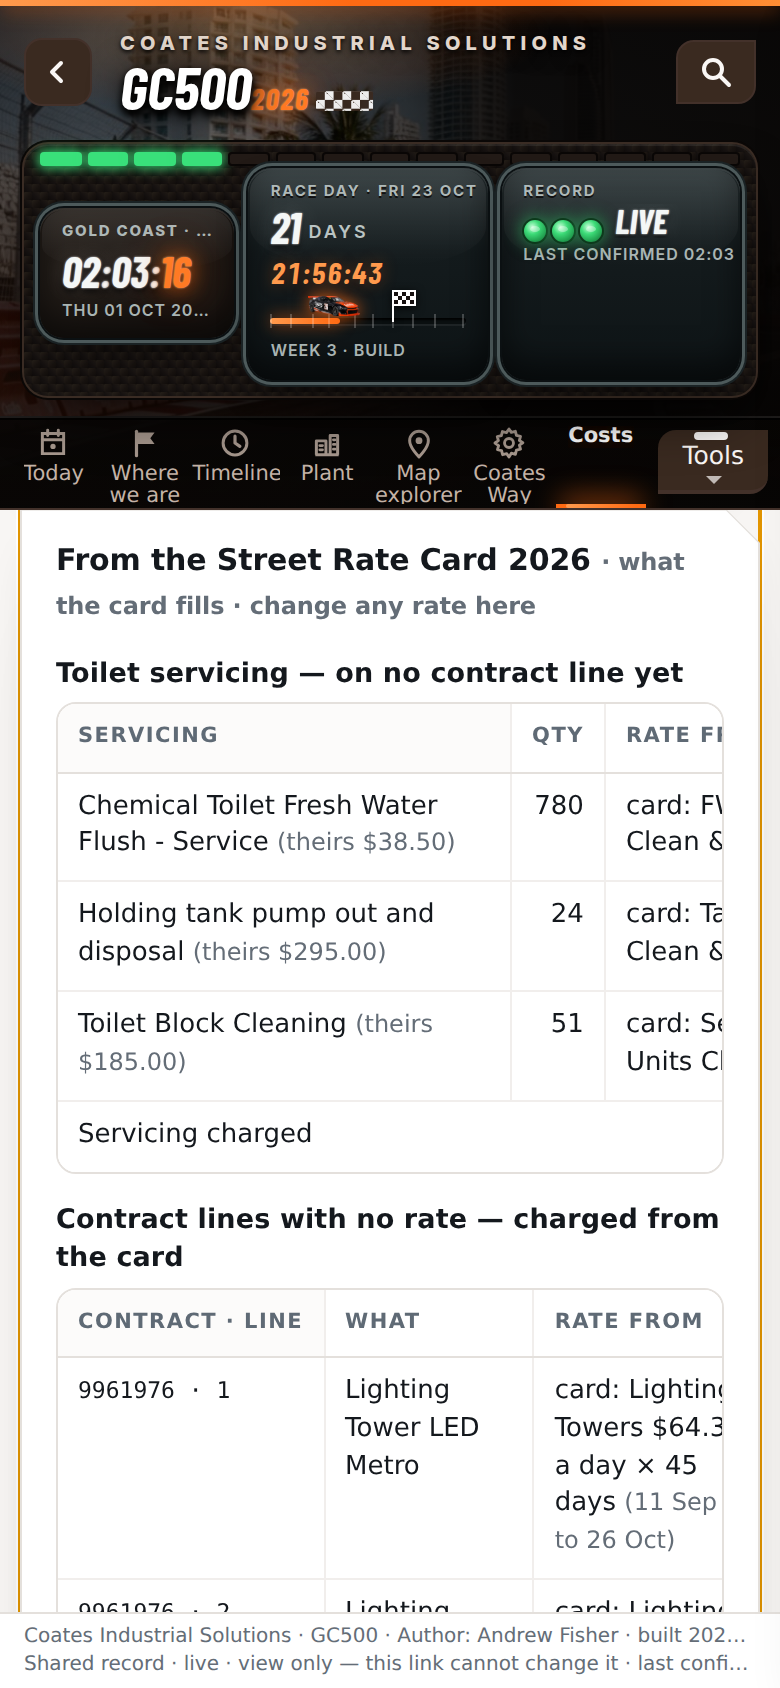
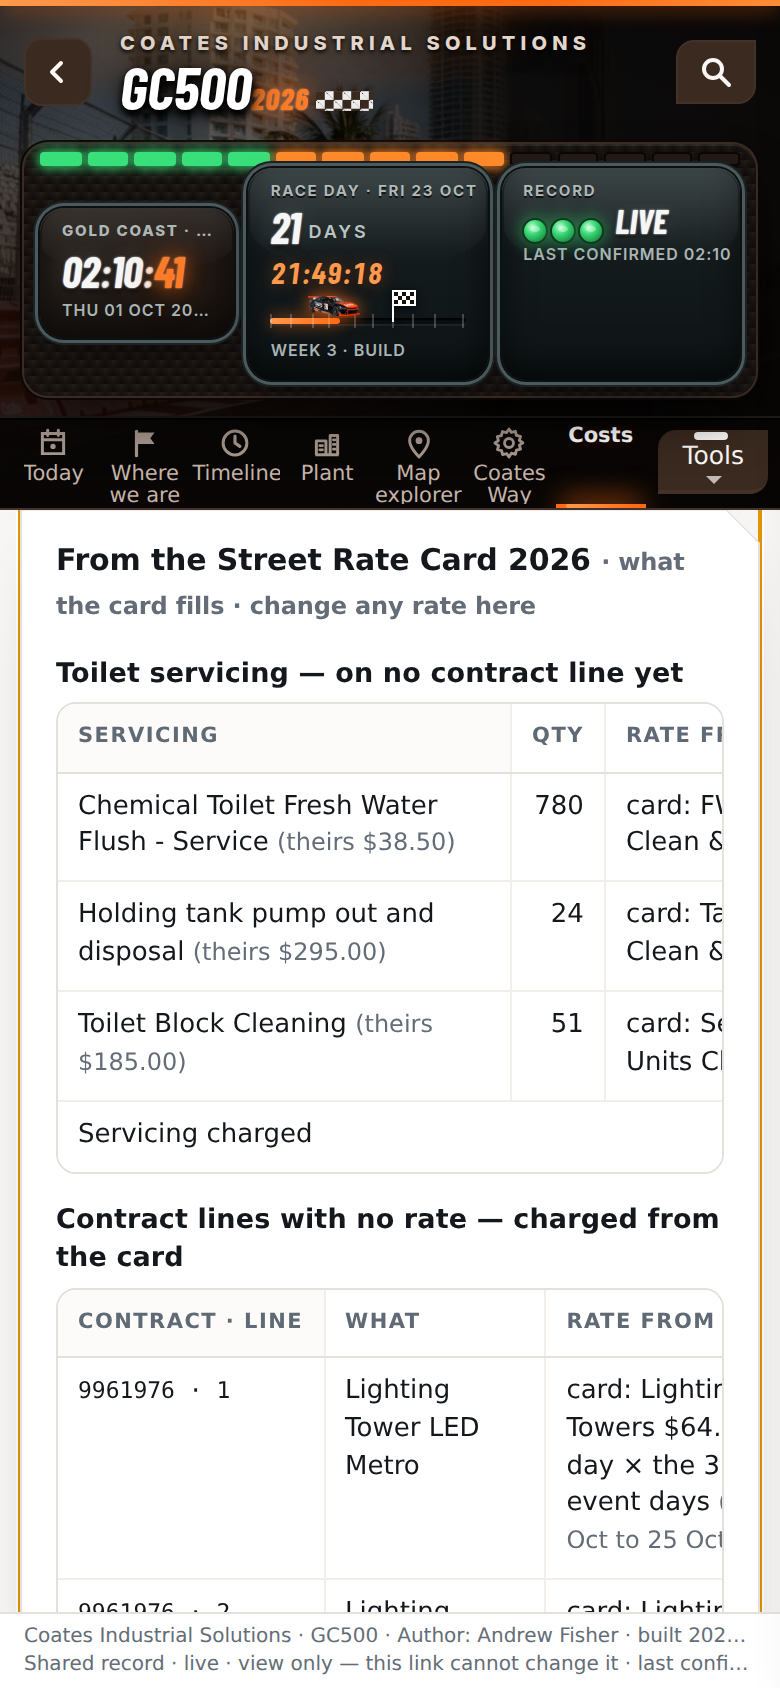
v7.49 draft: generators and towers charged for the three race days only, by the branch's rule (Brenden Meek); the rule recorded in AGENTS.md; figures redone. Not live
Claude-Session: https://claude.ai/code/session_01BQwk5iUoysfHRmoPUtnkBd

diff --git a/03_GC500_Delivery_Control/v7.49_card_fills_the_gaps_DRAFT/card748_src.js b/03_GC500_Delivery_Control/v7.49_card_fills_the_gaps_DRAFT/card748_src.js
@@ -8,8 +8,10 @@
  (Andrew, 1 Oct 2026: "If a generator price is not there you go for the lower, so 70 kVA becomes the 60 kVA. If
  the client asks for a 60 kVA and we supplied larger, they get the price of a 60 kVA."). The size is what was
  asked for (the reference's own type), else what the line says; a size the card has no line for takes the next
- size down. Forklifts charge by the day from when they go in, as every forklift line does; a generator or tower
- is charged once, for its days on site on the contract (booked delivery to expected off-hire).
+ size down. Forklifts charge by the day from when they go in, as every forklift line does. A generator or a tower
+ is charged once, for the three event days only (Brenden Meek, Branch Manager: "Forklifts, VMS and water barriers
+ are charged for from when they go in. Everything else is only charged for over the event.") - never for its
+ days on site, which is how long it is there, not what the customer pays for.
  3. Every rate can be typed over on the Costs tab; an empty box puts the card's back.
  The seven toilet lines and the building/container lines that had no rate are settled already, by the project
  manager's answers of 1 Oct 2026 (waste tanks included in toilet-block hire; contract 9968929 for Coates' own use)
@@ -56,12 +58,11 @@ function plant748(r){
  }
  return null;
 }
-/* days on site on the contract: booked delivery (or start) to off-hire (or expected off-hire), never under the minimum */
+/* the days an event-only line is charged for: the race days, both ends billed (the page's own event window) */
 function days748(r){
- const from = r.start_date || r.booked_delivery_date || r.contract_start, to = r.term_date || r.expected_term_date || r.booked_pickup_date;
- if (!from || !to) return null;
- const d = Math.max(daysBetween(from, to), typeof r.minimum_days === 'number' ? r.minimum_days : 0);
- return d > 0 ? {days: d, from, to} : null;
+ const ev = eventWindow(); if (!ev) return null;
+ const d = Math.max(ev.days, typeof r.minimum_days === 'number' ? r.minimum_days : 0);
+ return d > 0 ? {days: d, from: ev.from, to: ev.to} : null;
 }
 function lr748Decided(r){ return typeof contractTreatment747 === 'function' && !!contractTreatment747(r); }
 /* the rate a line with no contract rate is charged at: typed here, else the card, else nothing */
@@ -81,7 +82,7 @@ function contractCharge(r){
  const out = contractCharge_747(Object.assign({}, r, {rate_1: f.rate}));
  out.filled = f.from;
  out.basis = (f.from === 'typed' ? 'no rate on the contract - ' + money(f.rate) + ' typed on the Costs tab' + (f.by ? ' by ' + f.by : '')
- : 'no rate on the contract - the card\'s ' + f.plant.line + ' ' + money(f.plant.daily) + ' a day' + (f.days ? ' x ' + f.days.days + ' days on site' : '') + (f.plant.why ? ' (' + f.plant.why + ')' : '')) + ' · ' + out.basis;
+ : 'no rate on the contract - the card\'s ' + f.plant.line + ' ' + money(f.plant.daily) + ' a day' + (f.days ? ' x the ' + f.days.days + ' event days' : '') + (f.plant.why ? ' (' + f.plant.why + ')' : '')) + ' · ' + out.basis;
  return out;
 }
 /* the servicing: Event Portables' quantities, the card's pump-out rates (or a rate typed here) */
@@ -102,7 +103,7 @@ function card748Html(){
  const filled = open.filter(x => x.f), still = open.filter(x => !x.f);
  const sv = servicing748();
  const from = f => f.from === 'typed' ? 'typed' + (f.by ? ' by ' + esc(f.by) : '') + (f.plant ? `<br><span class="w">card: ${esc(f.plant.line)} ${esc(money(f.plant.daily))} a day</span>` : '')
- : `card: ${esc(f.plant.line)} ${esc(money(f.plant.daily))} a day${f.days ? ` × ${esc(f.days.days)} days <span class="w">(${esc(fmtDay(f.days.from).dm)} to ${esc(fmtDay(f.days.to).dm)})</span>` : ' <span class="w">× days from when it goes in</span>'}${f.plant.why ? `<br><span class="w">${esc(f.plant.why)}</span>` : ''}`;
+ : `card: ${esc(f.plant.line)} ${esc(money(f.plant.daily))} a day${f.days ? ` × the ${esc(f.days.days)} event days <span class="w">(${esc(fmtDay(f.days.from).dm)} to ${esc(fmtDay(f.days.to).dm)})</span>` : ' <span class="w">× days from when it goes in</span>'}${f.plant.why ? `<br><span class="w">${esc(f.plant.why)}</span>` : ''}`;
  const tr = x => { const r = x.r, f = x.f;
  return `<tr><td class="mono">${esc(r.rental_contract)} · ${esc(r.line)}</td><td>${esc(r.what || r.description || '')}${r.quantity > 1 ? ' × ' + esc(r.quantity) : ''}</td>
  <td>${f ? from(f) : '<span class="chip cand">no rate yet</span> <span class="w">no line on the card</span>'}</td>
@@ -120,7 +121,7 @@ function card748Html(){
  </tbody></table></div>
  ${sv.not_on_the_card.length ? `<p class="hint">Not charged — no line on the card: ${esc(sv.not_on_the_card.map(l => l.description + ' (theirs ' + money0(l.their_amount) + ')').join(', '))}. Needs a price agreed.</p>` : ''}` : ''}
  ${filled.length ? `<h4>Contract lines with no rate — charged from the card</h4>
- <p class="hint">The card's daily on-site rate for what was asked for; a size the card has no line for takes the next size down (the project manager, 1 Oct 2026). Forklifts charge by the day from when they go in; a generator or tower once, for its days on site on the contract. A rate typed here is the line's figure (per day for a forklift, the whole event otherwise).</p>
+ <p class="hint">The card's daily on-site rate for what was asked for; a size the card has no line for takes the next size down (the project manager, 1 Oct 2026). Forklifts charge by the day from when they go in; a generator or tower once, for the three event days only — the branch's rule (Brenden Meek): everything but forklifts, VMS and water barriers is charged over the event. A rate typed here is the line's figure (per day for a forklift, the whole event otherwise).</p>
  <div class="tblwrap"><table class="tbl t748">${head}<tbody>${filled.map(tr).join('')}
  <tr class="tot"><td colspan="4">${filled.length} line${filled.length === 1 ? '' : 's'}</td><td class="num"><b>${esc(money(filled.reduce((s, x) => s + (x.ch.amount || 0), 0)))}</b></td></tr></tbody></table></div>` : ''}
  ${still.length ? `<details class="fold748"><summary>Still no rate: ${still.length} contract line${still.length === 1 ? '' : 's'} — no line on the card; type a rate to charge one</summary>

diff --git a/03_GC500_Delivery_Control/STATUS.md b/03_GC500_Delivery_Control/STATUS.md
@@ -24,7 +24,7 @@ The live page's own proof: `toolchain/fetch_live.sh` then compare with the relea
 
 | version | what | who | since |
 |---|---|---|---|
-| v7.49 | The card fills the gaps (Andrew, 30 Sep: "use the rate card to fill in the gaps, we can edit the hire rate later"): Q6844 toilet servicing charged at the card's pump-out rates ($85,101.75; Toilets stream −$49,483 → +$35,619); generators, towers and forklifts with no rate charged from the card by Andrew's 1 Oct generator rule (asked-for size; no card line → next size down; 31 lines, $102,862; lines with no rate 33 → 2); every rate editable on Costs (synced `lineRates`); Codex's v7.47 decisions (tanks included, 9968929 own use) always stand. Revenue $434,258 → $622,222. **Built and tested, NOT live** (no edit key in Claude's container) — `v7.49_card_fills_the_gaps_DRAFT/README.md`, build together with v7.48. Author: Andrew Fisher. | Claude | 1 Oct 2026 |
+| v7.49 | The card fills the gaps (Andrew, 30 Sep: "use the rate card to fill in the gaps, we can edit the hire rate later"): Q6844 toilet servicing charged at the card's pump-out rates ($85,101.75; Toilets stream −$49,483 → +$35,619); generators, towers and forklifts with no rate charged from the card by Andrew's 1 Oct generator rule (asked-for size; no card line → next size down) and Brenden Meek's days rule (forklifts from when they go in; generators and towers the three race days only) — 31 lines, $46,953; lines with no rate 33 → 2; every rate editable on Costs (synced `lineRates`); Codex's v7.47 decisions (tanks included, 9968929 own use) always stand. Revenue $434,258 → $566,312. **Built and tested, NOT live** (no edit key in Claude's container) — `v7.49_card_fills_the_gaps_DRAFT/README.md`, build together with v7.48. Author: Andrew Fisher. | Claude | 1 Oct 2026 |
 | v7.48 | Text it says what it is and where it goes (first claimed as v7.47; renumbered because Codex's v7.47 went live first): reference, what it is, GPS (master plan wins), Maps link, pit lane way in, inside three plain texts (the old text was ~700 characters; the service refuses over 480). **Built and tested, NOT live** (no edit key in Claude's container) — `v7.48_text_it_says_what_and_where_DRAFT/README.md`. Author: Andrew Fisher. | Claude | 30 Sep 2026 |
 | v7.46 | Apply GN20's approved 315 kVA install basis from Andrew's uploaded Rate Card 2026 (1).xlsx. Preserve hire/demob and other references; verify, test and release. Author: Andrew Fisher. | Codex | 30 Sep 2026 22:21 |
 
@@ -43,6 +43,11 @@ land there).
 Claim a line here and push it BEFORE you start. Clear it when the release is live.
 
 ## Waiting on Andrew
+
+- Brenden Meek's email (1 Oct 2026, rules now in AGENTS.md): "Attached is pricing for the rehire toilets" — the
+  attachment has not reached the repo; if it differs from quote Q6844 the servicing figures need it. "No updated
+  pricing yet, waiting on Corey Machado" — when it comes, type the new rates on Costs → From the Street Rate Card
+  2026, or send the card for a release.
 
 - Toilets and servicing: Andrew said on 30 Sep "use the rate card to fill in the gaps, we can edit the hire rate
   later" — v7.49 charges the Q6844 servicing at the card's pump-out rates. Still open: (a) the water truck, pre-fill,

diff --git a/03_GC500_Delivery_Control/v7.49_card_fills_the_gaps_DRAFT/README.md b/03_GC500_Delivery_Control/v7.49_card_fills_the_gaps_DRAFT/README.md
@@ -33,11 +33,12 @@ rename both folders `_LIVE`, update `STATUS.md`.
    generator price is not there you go for the lower, so 70 kVA becomes the 60 kVA. If the client asks for a 60 kVA and
    we supplied larger, they get the price of a 60 kVA."). The size is what was asked for (the reference's own type),
    else what the line says; a size the card has no line for takes the next size down (GN20 asked 350 → 315 kVA; the
-   300 kVA line → 250 kVA; GN18/GN06 asked 50 with 60 sent → 50; GN13 asked 45 → 45). Forklifts charge the card's
-   daily rate by the day from when they go in (the page's forklift rule); the 3.0 t and 3.5 t take the 2.5 t standard
-   (no card line). Generators and towers are charged once: the card's daily on-site rate × days on site on the
-   contract (booked delivery to expected off-hire). 31 lines filled, $102,862; the fork extension and tyne rotator
-   have no card line and stay open with a box.
+   300 kVA line → 250 kVA; GN18/GN06 asked 50 with 60 sent → 50; GN13 asked 45 → 45). The days follow the branch's
+   rule (Brenden Meek, Branch Manager: "Forklifts, VMS and water barriers are charged for from when they go in.
+   Everything else is only charged for over the event."): forklifts charge the card's daily rate by the day from when
+   they go in (the 3.0 t and 3.5 t take the 2.5 t standard, no card line); a generator or tower is charged once, the
+   card's daily rate × the three race days (23–25 Oct), never its days on site. 31 lines filled, $46,953; the fork
+   extension and tyne rotator have no card line and stay open with a box.
 
 ## Figures (practice tests on the live record, read only — `evidence/streams_before_after.json`)
 
@@ -48,13 +49,14 @@ rename both folders `_LIVE`, update `STATUS.md`.
 | Buildings, containers and furniture | $66,992 | $66,992 | not recorded | — |
 | VMS, water barriers and track mat | $81,149 | $81,149 | not recorded | — |
 | Forklifts and access | $15,935 | **$51,211** | not recorded | — |
-| Generators and lighting towers | $339 | **$67,925** | not recorded | — |
+| Generators and lighting towers | $339 | **$12,015** | not recorded | — |
 | Delivery and transport | $6,939 | $6,939 | $21,721 | −$14,782 |
 | People — event staff and crew | $72,899 | $72,899 | $17,664 | +$55,235 |
-| **Revenue** | **$434,258** | **$622,222** | known costs $235,082 | |
+| **Revenue** | **$434,258** | **$566,312** | known costs $235,082 | |
 
 Contract lines with no rate: 33 → 2. Still not in the costs: wages (hours only), 31 accommodation nights, transport
-only partly, sub-hire rehire cost for the hired-in plant.
+only partly, sub-hire rehire cost for the hired-in plant. Brenden Meek: "no updated pricing yet, waiting on Corey
+Machado" — every card figure here can be typed over when it comes.
 
 Checks: a rate typed on a decided tank line is ignored (stays "Included in toilet-block hire", $0); a typed rate on a
 card-filled generator wins, and clearing it puts the card figure back; the typer's name is kept; the revenue total on

diff --git a/AGENTS.md b/AGENTS.md
@@ -105,6 +105,12 @@ marks as a draft, or anything risky to the record, waits for his yes.
   Never go back to one list per reference; that is what lost photographs.
 - **Sub-hired locations say so first** (v7.43) and carry no Coates contract, branch or Rental ID.
 - **What a reference is decides what its drawer offers** (v7.43): no accessories on generators, towers, barriers.
+- **How the branch charges** (Brenden Meek, Branch Manager - Relief, by email; Andrew said "remember", 1 Oct 2026):
+  "Labour is charged per piece of equipment. Only hourly labour charged is over the event. Forklifts, VMS and
+  water barriers are charged for from when they go in. Everything else is only charged for over the event."
+  The event is 23, 24 and 25 October, both ends billed (three days). Pricing for the rehire toilets came attached to
+  that email; "no updated pricing yet, waiting on Corey Machado". A card daily rate for a generator or a light
+  tower is therefore charged for the three event days, never for its days on site.
 - **Generator pricing** (Andrew, 1 Oct 2026): "If a generator price is not there you go for the lower, so 70 kVA becomes
   the 60 kVA. If the client asks for a 60 kVA and we supplied larger, they get the price of a 60 kVA." The rate
   follows what was asked for; a size the card has no line for takes the next size down.
